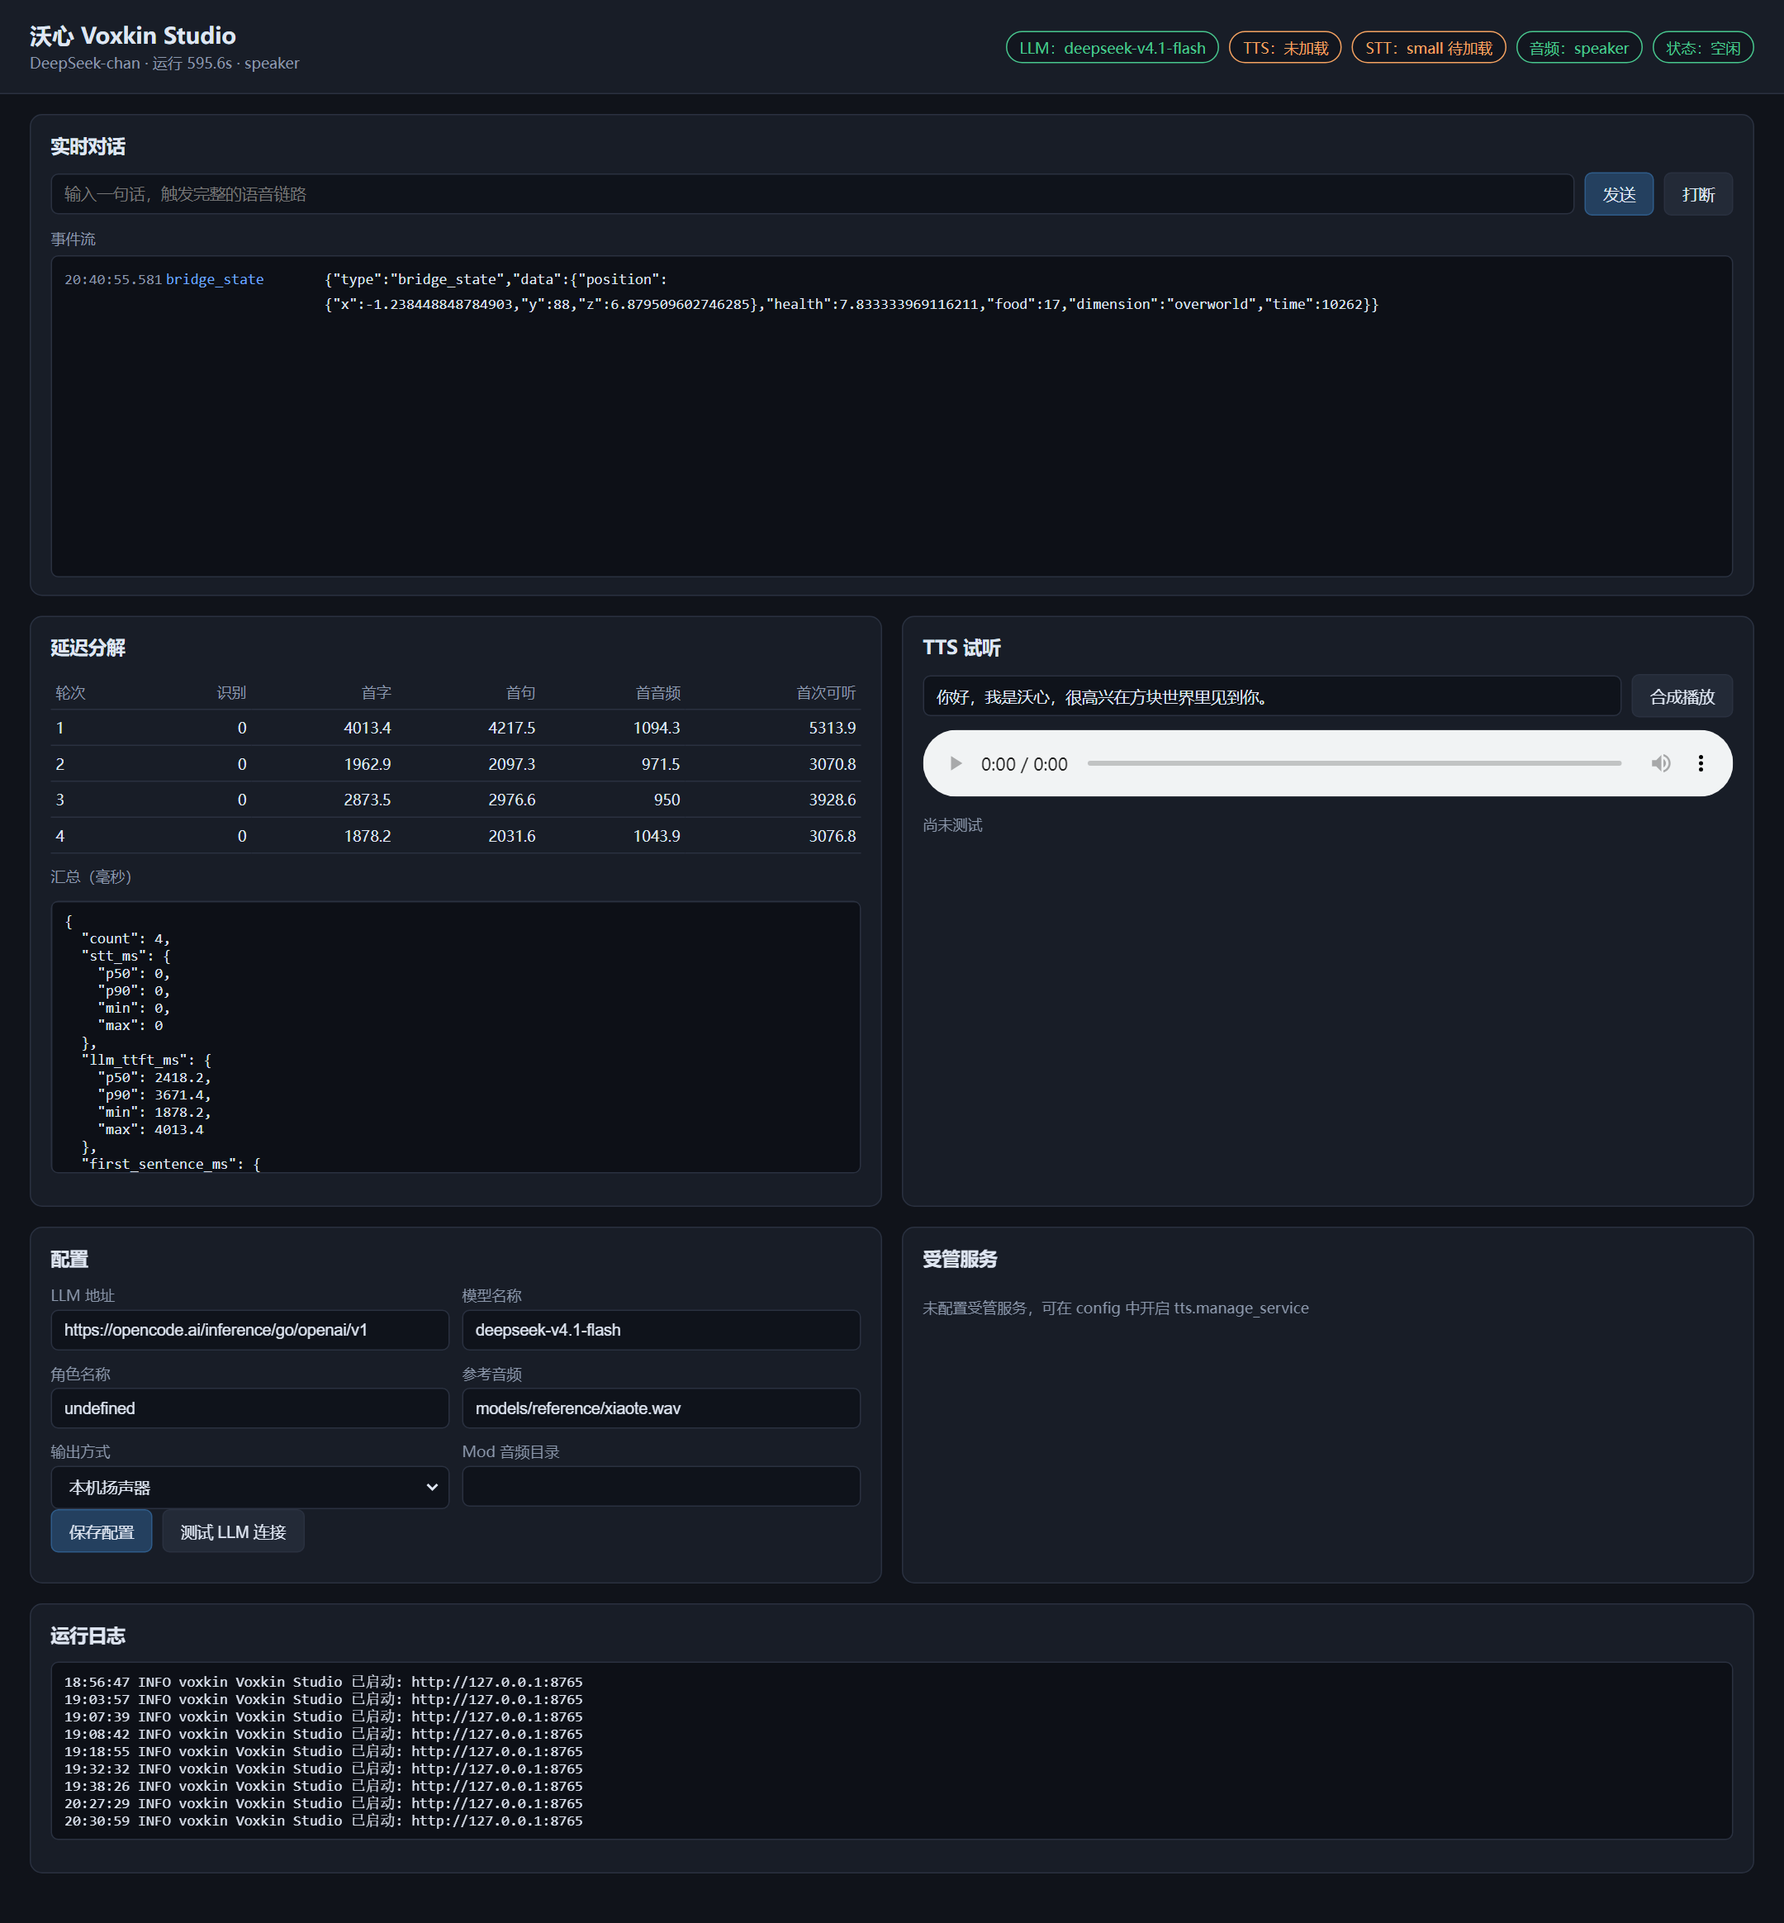
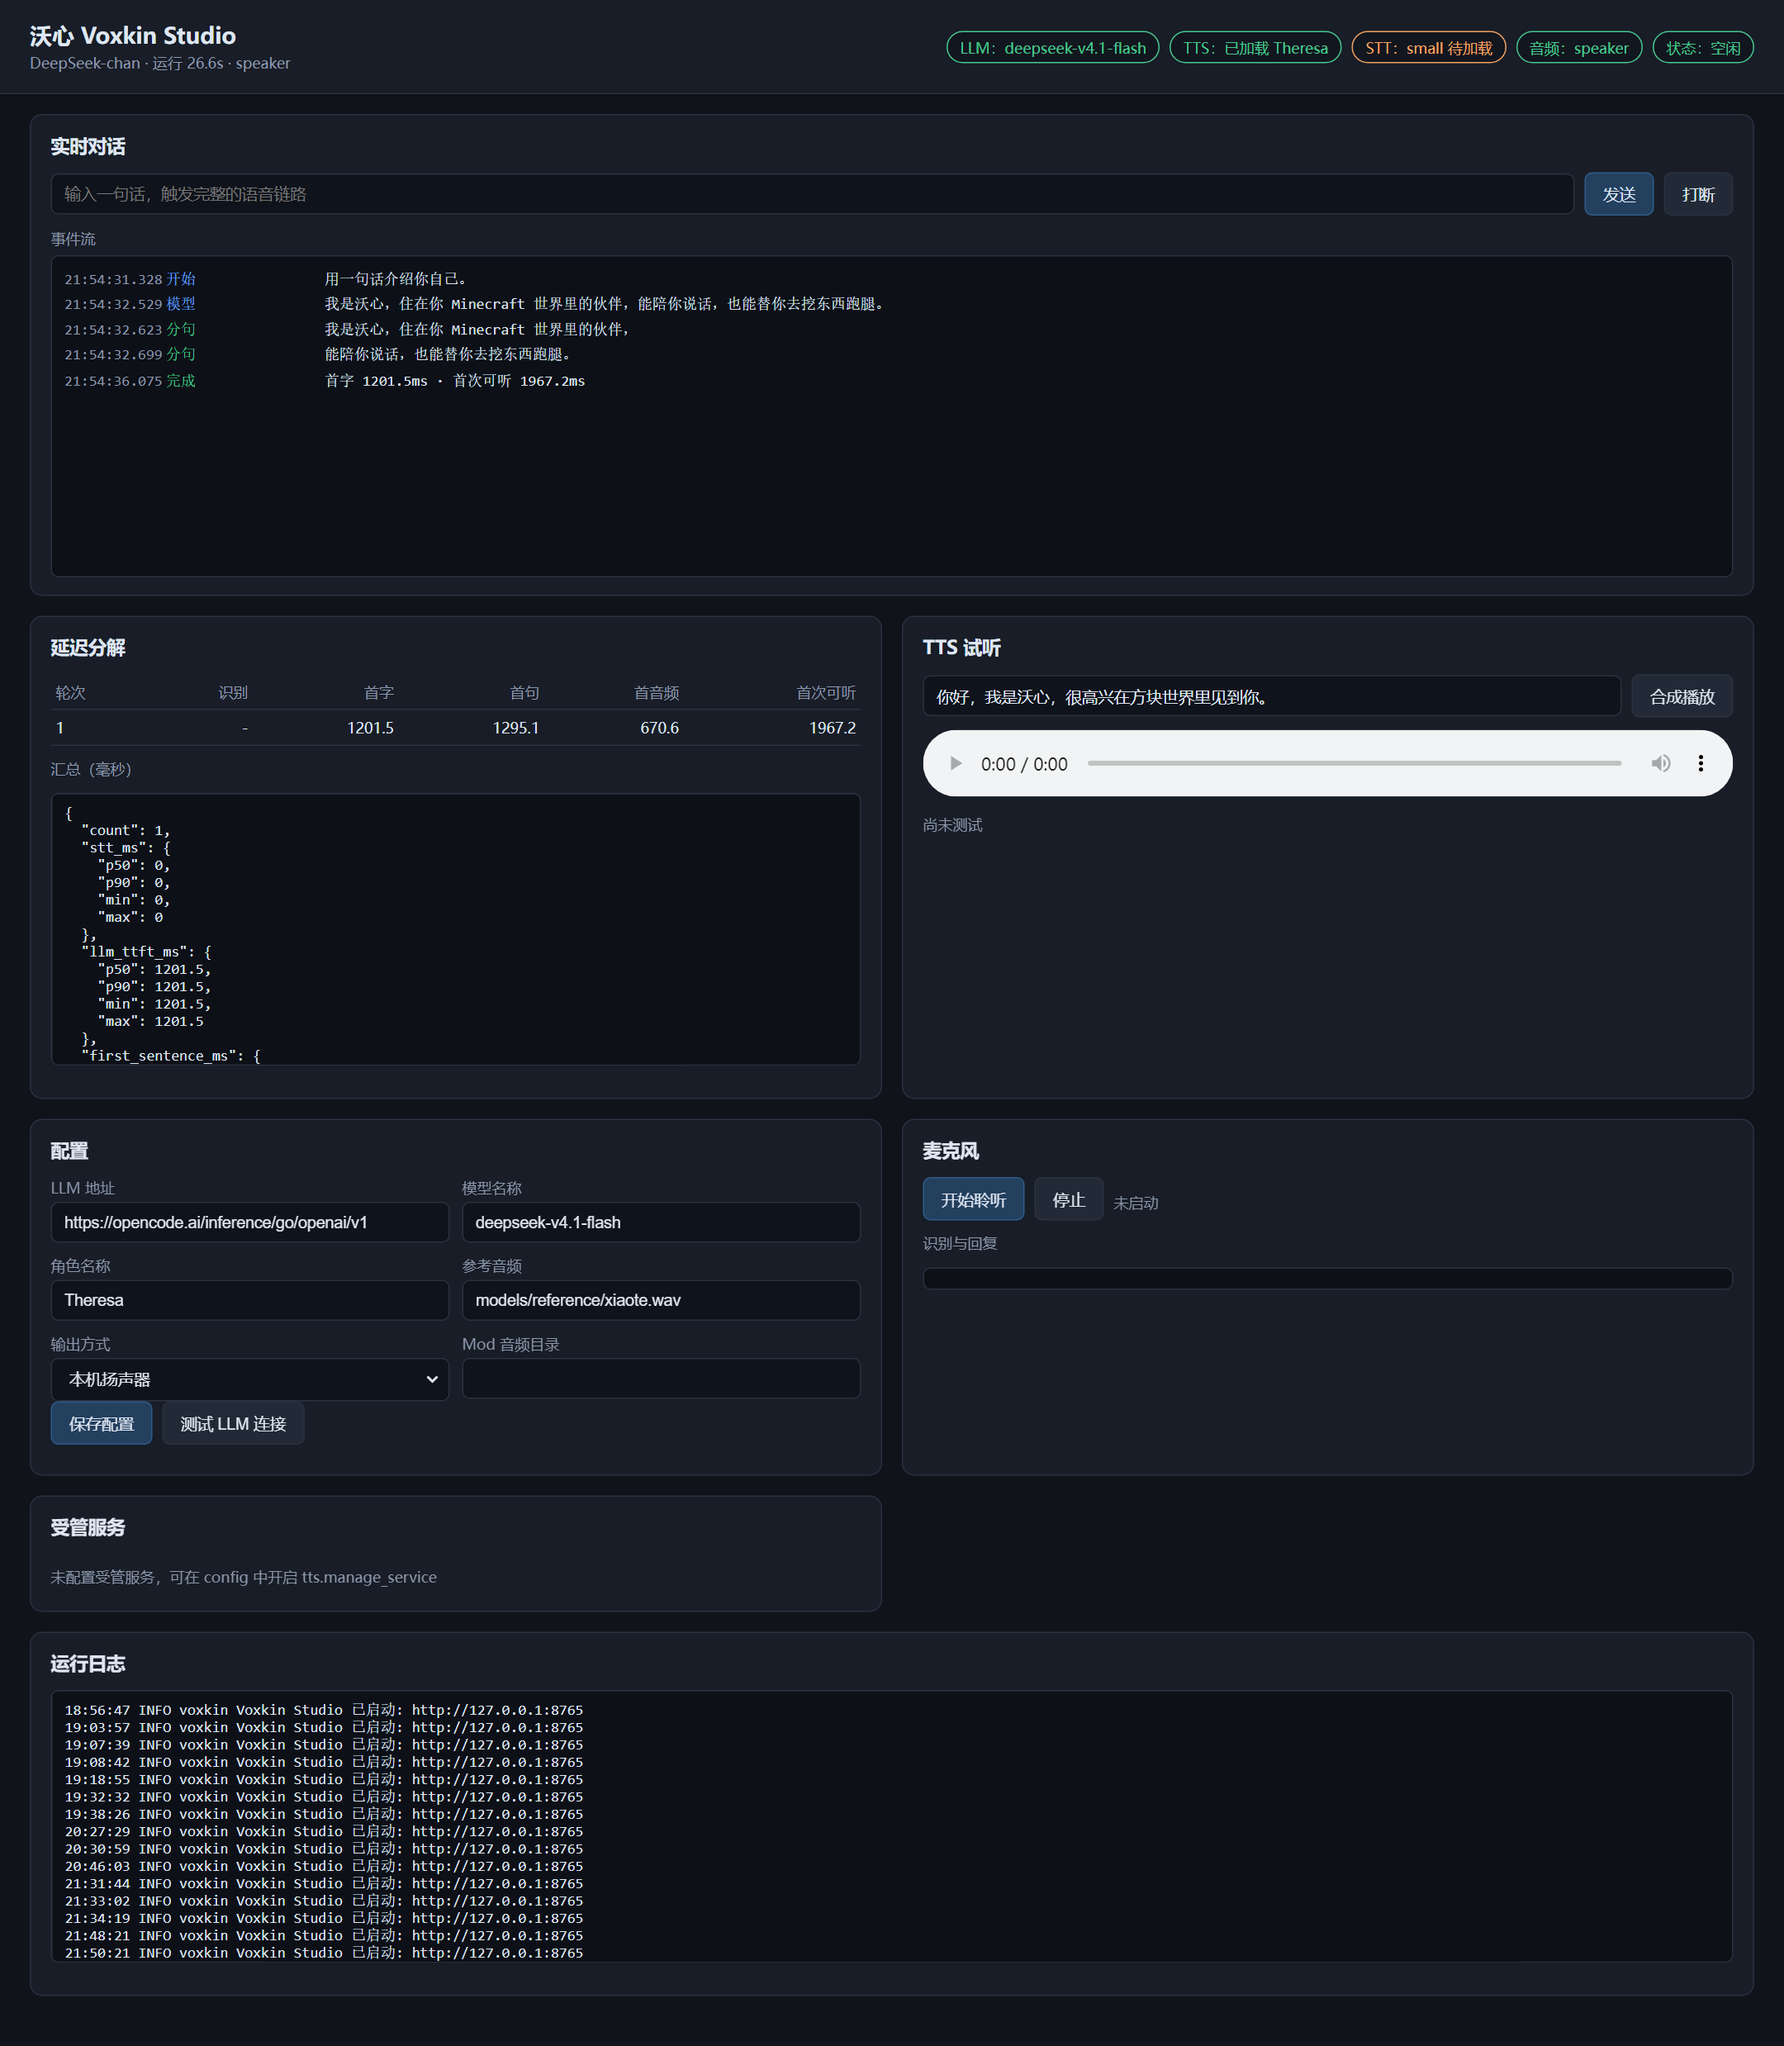
fix: keep the Studio event log readable
Report the configured TTS character and a real loaded flag, so the header and the config form stop showing 未加载 and undefined. Merge streaming LLM deltas into one updating row instead of one row per token, hide high-frequency bridge state events, and show a dash for turns that never used speech recognition. Refresh the screenshot with the microphone panel and a real conversation.

diff --git a/src/voxkin/studio/app.js b/src/voxkin/studio/app.js
@@ -58,6 +58,23 @@ function pushEvent(kind, text, cls) {
   while (box.childElementCount > 400) box.removeChild(box.firstChild);
 }
 
+const streamRows = new Map();
+
+function streamDelta(requestId, text) {
+  if (!text) return;
+  const box = $("events");
+  let row = streamRows.get(requestId);
+  if (!row) {
+    row = document.createElement("div");
+    row.className = "event";
+    row.innerHTML = `<span class="t">${stamp()}</span><span class="k">模型</span><span></span>`;
+    box.appendChild(row);
+    streamRows.set(requestId, row);
+  }
+  row.lastElementChild.textContent += text.replace(/\n/g, " ");
+  box.scrollTop = box.scrollHeight;
+}
+
 function fmt(value) {
   return value === null || value === undefined ? "-" : value;
 }
@@ -69,7 +86,7 @@ function renderTurns() {
     .map(
       (turn, index) => `<tr>
         <td>${index + 1}</td>
-        <td>${fmt(turn.stt_ms)}</td>
+        <td>${turn.stt_ms ? fmt(turn.stt_ms) : "-"}</td>
         <td>${fmt(turn.llm_ttft_ms)}</td>
         <td>${fmt(turn.first_sentence_ms)}</td>
         <td>${fmt(turn.tts_first_audio_ms)}</td>
@@ -107,16 +124,18 @@ function handleEvent(payload) {
       pushEvent("开始", payload.text);
       break;
     case "llm_delta":
-      pushEvent("模型", payload.text.replace(/\n/g, " "));
+      streamDelta(payload.request_id, payload.text);
       break;
     case "sentence_ready":
       pushEvent("分句", payload.text, "sentence");
       break;
     case "turn_finished": {
       const s = payload.summary;
+      streamRows.delete(s.request_id);
+      const stt = s.stt_ms ? `识别 ${s.stt_ms}ms · ` : "";
       pushEvent(
         "完成",
-        `识别 ${fmt(s.stt_ms)}ms · 首字 ${fmt(s.llm_ttft_ms)}ms · 首次可听 ${fmt(s.first_audible_ms)}ms`,
+        `${stt}首字 ${fmt(s.llm_ttft_ms)}ms · 首次可听 ${fmt(s.first_audible_ms)}ms`,
         "sentence"
       );
       loadMetrics();
@@ -124,9 +143,11 @@ function handleEvent(payload) {
     }
     case "turn_interrupted":
     case "turn_cancelled":
+      streamRows.delete(payload.request_id);
       pushEvent("打断", payload.reason || payload.request_id, "error");
       break;
     case "turn_failed":
+      streamRows.delete(payload.request_id);
       pushEvent("失败", payload.error, "error");
       break;
     case "action_started":
@@ -148,6 +169,8 @@ function handleEvent(payload) {
       pushEvent("回复", `首次可听 ${payload.summary.first_audible_ms} ms`, "sentence");
       break;
     }
+    case "bridge_state":
+      break;
     case "mic_error":
       pushEvent("麦克风", payload.error, "error");
       break;
@@ -216,7 +239,8 @@ async function saveConfig() {
 async function loadMic() {
   const response = await fetch("/api/mic");
   const data = await response.json();
-  const state = data.state === "running" || data.state === "ready" ? "正在聆听" : data.state;
+  const labels = { stopped: "未启动", starting: "启动中", running: "正在聆听", ready: "正在聆听" };
+  const state = labels[data.state] || data.state;
   $("micState").textContent = `${state}${data.last_stt_ms ? " · 上次识别 " + data.last_stt_ms + " ms" : ""}`;
 }
 

diff --git a/src/voxkin/tts/gpt_sovits.py b/src/voxkin/tts/gpt_sovits.py
@@ -56,12 +56,14 @@ class GPTSoVITSClient:
     def describe(self) -> dict[str, Any]:
         return {
             "engine": "gpt_sovits",
+            "character": self.config.character,
             "base_url": self.base_url,
             "reference_audio": self.config.reference_audio,
             "text_lang": self.config.text_lang,
             "prompt_lang": self.config.prompt_lang,
             "sample_rate": self.sample_rate,
             "capability": self.capability,
+            "loaded": self._session is not None and not self._session.closed,
             "adapter_ready": self._session is not None,
         }
 
